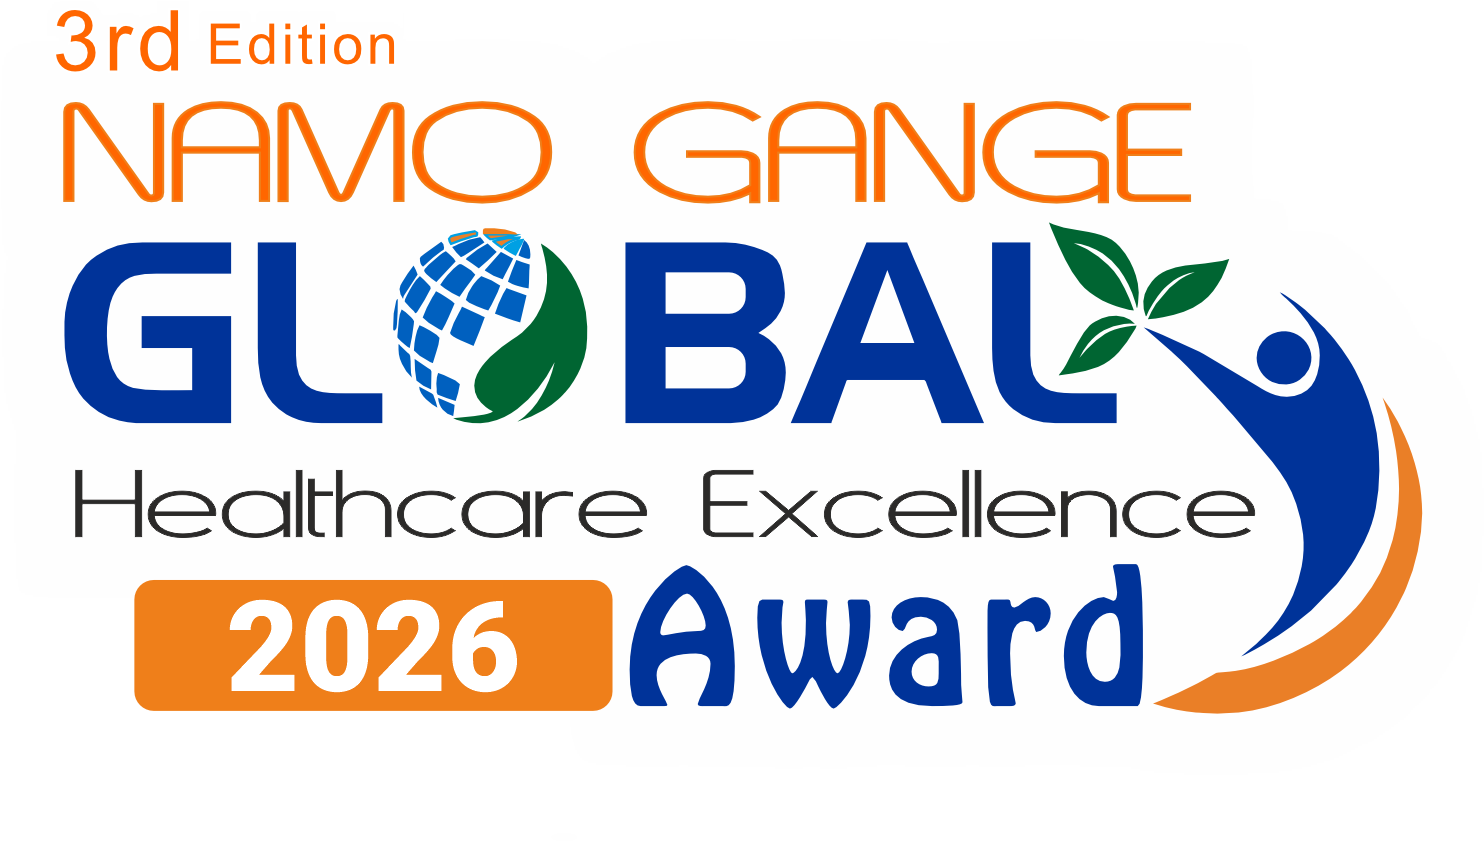
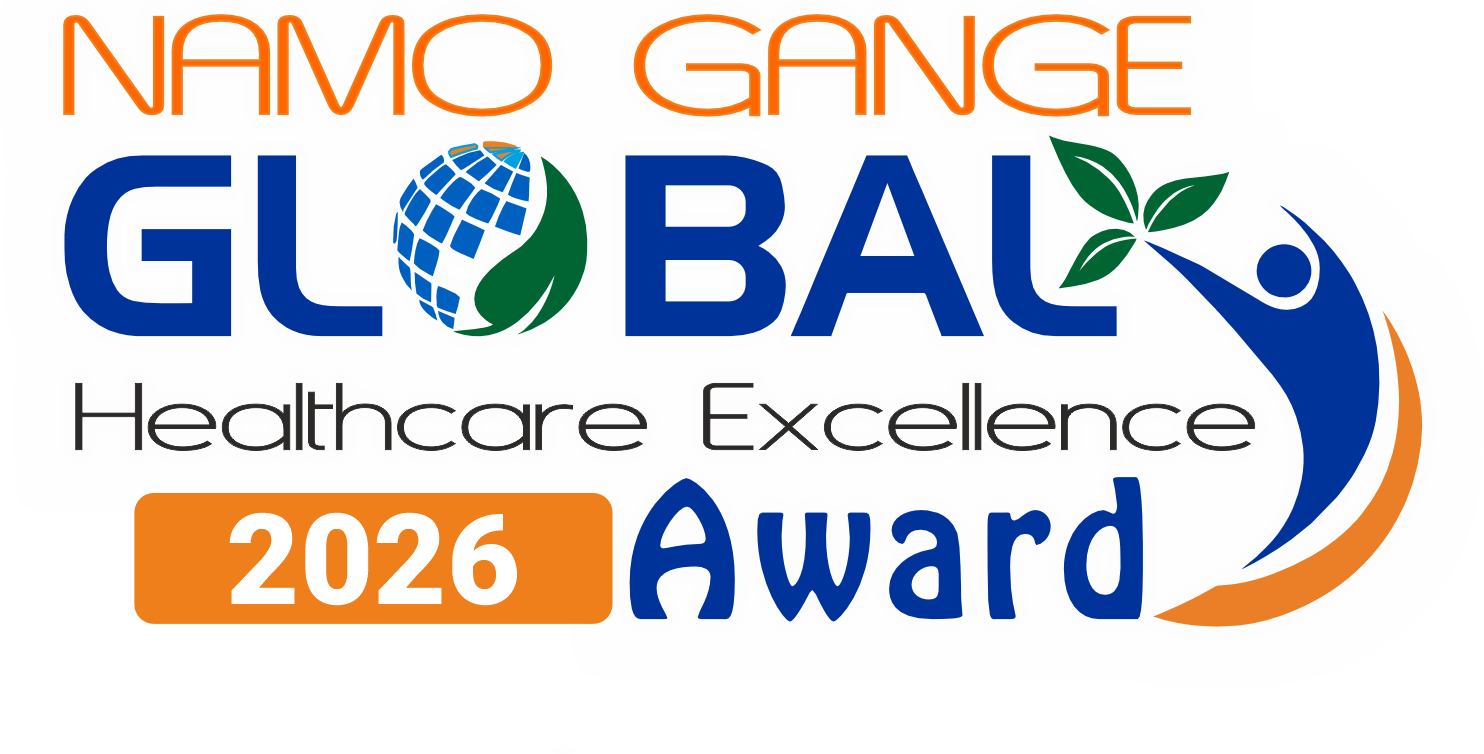
changes done

Changed region(s): [[0.031, 0.0, 0.9609, 0.8541], [0.434, 0.0, 0.496, 0.061], [0.31, 0.0, 0.341, 0.0305]]

diff --git a/src/pages/awards/AwardsHero.tsx b/src/pages/awards/AwardsHero.tsx
@@ -34,11 +34,11 @@ const AwardsHero = () => {
             className="lg:col-span-8 flex flex-col items-start"
           >
             {/* Awards Logo */}
-            <div className="mb-1 w-full">
-              <img src={awardsLogo} alt="Namo Gange Awards Logo" className="h-40 w-[440px] object-fill" />
+            <div className="flex justify-start overflow-hidden mb-0 -mb-4">
+              <img src={awardsLogo} alt="Namo Gange Awards Logo" className="w-[500px] h-auto object-contain -ml-4 -mb-6" />
             </div>
 
-            <div className="flex items-center gap-4">
+            <div className="flex items-center gap-4 mt-3">
               <span className="text-[12px] font-bold uppercase tracking-[0.4em]" style={{ color: darkYellow }}>3rd Edition Of</span>
               <div className="flex items-center gap-0">
                 <div className="h-[1px] w-14" style={{ backgroundColor: darkYellow }}></div>
